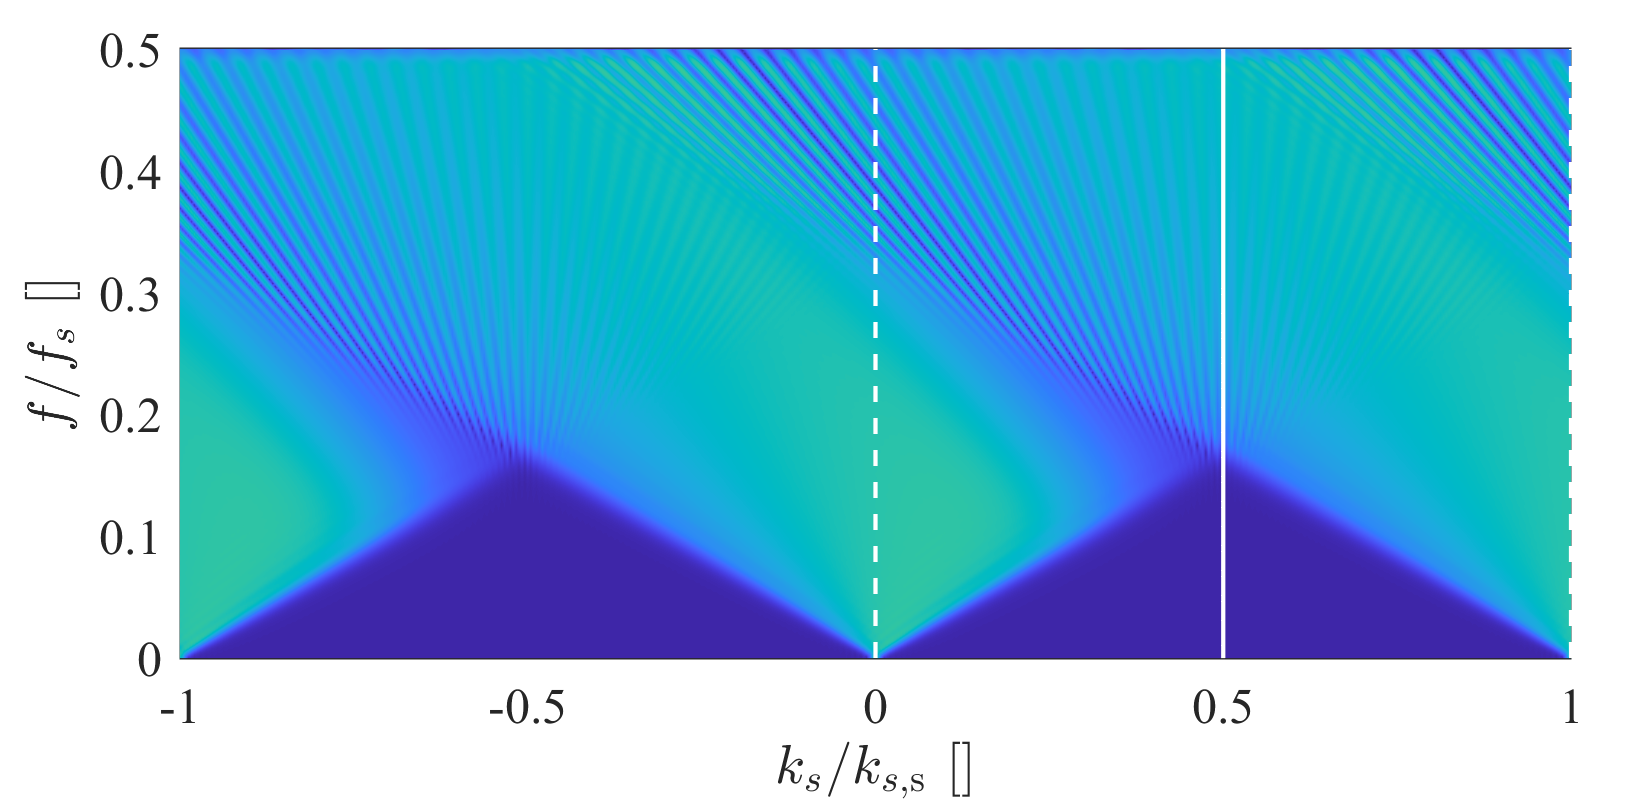
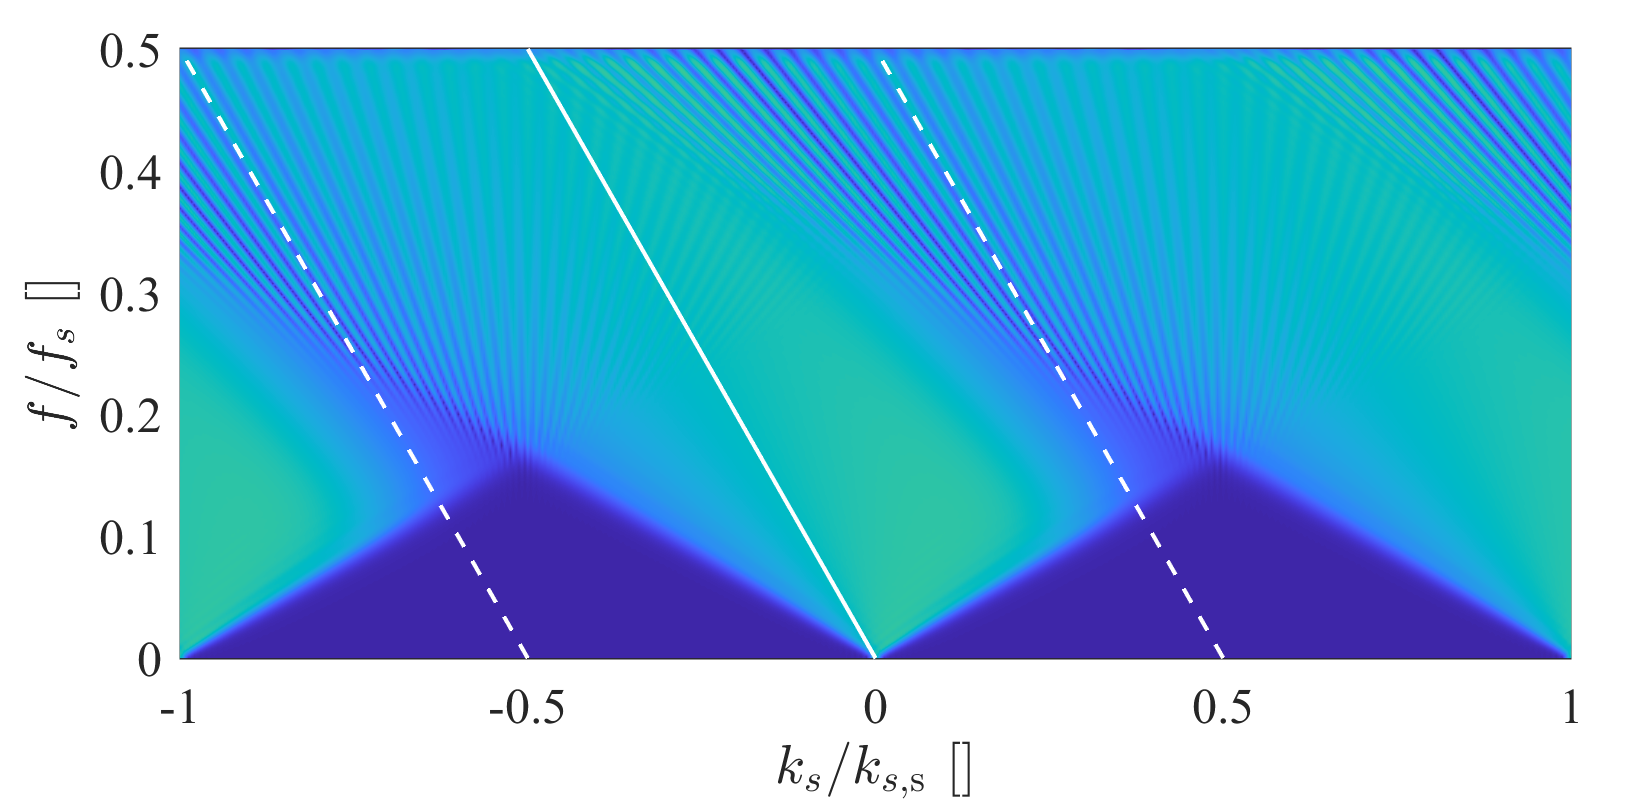
figs_added

diff --git a/paper/main.tex b/paper/main.tex
@@ -364,17 +364,21 @@ The set of window functions applied in the present simulation scenario are illus
 As an alternative antialiasing strategy, the overlapping of the spectra can be avoided by bandlimiting the driving function spectra with a spatial pass-band filter with an arbitrary center wavenumber $k_{s,0}$ and the bandwidth of the sampling wavenumber $k_{s,\mathrm{s}} = k_{s,\mathrm{Nyq}}$.
 
 Again, the concept is illustrated via a simple synthesis scenraio as discussed in the foregoing.
-In the present case the spatial bandpass filter is derived by shifting the $N$-th order low-pass Butterworth design to the center wavenumber $k_{s,0}$
+In the present case the spatial bandpass filter is derived by shifting the $N$-th order low-pass Butterworth design to the a frequency dependent center wavenumber $k_{s,0}(\omega) = \frac{\omega}{c} \hat{k}_{s,0}$ (where $\hat{k}_{s,0}$ is a constant normalized wavenumber value)
 \begin{equation}
-    H_x(k_s) = \frac{ 1 }{ \sqrt{ 1 + \left( \frac{k_s-k_{s,0}}{k_{s,\mathrm{Nyq}} }\right)^{2N} } }.
+    H_x(k_s, \omega) = \frac{ 1 }{ \sqrt{ 1 + \left( \frac{k_s-k_{s,0}(\omega)}{k_{s,\mathrm{Nyq}} }\right)^{2N} } }.
 \end{equation}
+Note, that in this case even the spatial filters are frequency dependent.
+This seemingly pointless assumption ensures later that the transformed temporal filters remain time-invariant.
+
 Again, an equivalent filter bank is derived by using the transform \eqref{eq:frequency_transform}, resulting in the frequency response of 
 \begin{equation}
-    H_t(s,\omega) = \frac{ 1 }{ \sqrt{ 1 + \left( \frac{\omega}{c}\frac{\hat{k}_t^P(s) - k_{s,0}}{k_{s,\mathrm{Nyq}}}  \right)^{2N} } } =  \frac{ 1 }{ \sqrt{ 1 + \left( \frac{\omega}{\omega_c(s)}  \right)^{2N} } } .
+    H_t(s,\omega) = \frac{ 1 }{ \sqrt{ 1 + \left( \frac{\omega}{c}\frac{\hat{k}_t^P(s) - \hat{k}_{s,0}}{k_{s,\mathrm{Nyq}}}  \right)^{2N} } } =  \frac{ 1 }{ \sqrt{ 1 + \left( \frac{\omega}{\omega_c(s)}  \right)^{2N} } } .
 \end{equation}
-with 
+where $\hat{k}_{s,0}$ is the normalized center wavenumber and with
 \begin{equation}
-    \omega_c(s) = c \frac{k_{s,\mathrm{Nyq}}}{\hat{k}_t^P(s)- k_{s,0}} = c\frac{ \pi}{\Delta s} \frac{1}{\hat{k}_t^P(s)- k_{s,0}}.
+    \omega_c(s) = c \frac{k_{s,\mathrm{Nyq}}}{\hat{k}_t^P(s) - \hat{k}_{s,0}} = c\frac{ \pi}{\Delta s} \frac{1}{\hat{k}_t^P(s) - \hat{k}_{s,0}}.
+    \label{eq:cutoff_asymm}
 \end{equation}
 
 \begin{figure}[h!]
@@ -388,11 +392,46 @@ with
     \end{overpic}
 \end{center}
     \caption{Non-symmetric antialiasing filtering}
-\label{Fig:symm_antialiasing}
+\label{Fig:assymm_antialiasing}
 \end{figure}
+The application of the above formulation with an arbitrarily chosen center wavenumber $\hat{k}_{s,0} = 0.5$ is depicted in Figure \ref{Fig:assymm_antialiasing}.
+Note that the wavenumber content of the original spatial lowpass filter is ,,steered'', so that the center frequency varies linearly with the angular freuquency and the slope of the variation is given by the normalized center wavenumber.
+Obviously, this ,,steered'', frequency dependent band-pass filter theoretically also ensures non-overlapping spectra after the discretization process.
+
+From \eqref{eq:cutoff_asymm} it is apparent that in the present case the nearly fullband SSD element will be that, where the tangential local propagation vector coincides with the normalized center wavenumber, i.e. where $\hat{k}_t^P(s) = \hat{k}_{s,0} = 0.5$.
+Again, the fullband SSD element is denoted by white dot in Figure \ref{Fig:assymm_antialiasing} (a).
+Similarly to the previous case, this fullband SSD element serves as the stationary SSD position for a set of positions located along a straight line passing through the SSD element with the direction given by this element's local propagation vector.
+The direction along which fullband synthesis is ensured is denoted by dashed arrow in Figure \ref{Fig:assymm_antialiasing} (a).
 
 
-It is important to emphasize that if no actual SSD element exists for a given plane wave direction (for which the wave arrives perpendicularly) then all the SSD elements are bandlimited, i.e. 
+It is important to emphasize that if no actual SSD element exists for a given plane wave direction (for which the wave arrives perpendicularly) then all the SSD elements are bandlimited, i.e. in the synthesized field no fullband synthesis positions will be present.
+Therefore, for a given receiver position the bandwidth of the reproduced field will depend on the virtual source position/virtual plane wave direction and the loudspeaker spacing.
+This phenomena will have a clearly audible effect in case of dynamic WFS scenarios (e.g. moving virtual sources) and the possibilities to overcome this limitation is the topic of future research.
+
+\subsubsection{Application for Local Wave Field Synthesis}
+The findings of the previous subsections can be straightforwardly used in order to apply the above theory directly for Local Wave Field Synthesis.
+In this case a reference position $\vxref$ is prescribed inside the SSD, at which aliasing-free, amplitude and phase correct synthesis has to be ensured.
+
+Amplitude correct synthesis may be achieved by a suitably chosen reference function in \eqref{Eq:WFS25D}, based on the virtual field model.
+For a detailed treatise on the definition of the reference function the reader is referred to \cite{Firtha2019phd}.
+
+On the other hand, aliasing components can be suppressed by ,,steering'' the direction of antialiased synthesis to cross the prescribed reference point.
+This can be performed by finding the stationary position on the SSD for the reference position and choosing the normalized center wavenumber in \eqref{eq:cutoff_asymm} to coincide with the local propagation vector of the stationary position.
+Mathematically, this can be formulated as follows.
+Given a reference position $\vxref$ and an SSD located along $\vxo$, the stationary SSD element $\vxo^*$ satisfies
+\begin{equation}
+    \frac{\vxref - \vxo^*}{\left| \vxref - \vxo^* \right|} = \hat{\vk}^P(\vxo^*).
+\end{equation}
+Once $\vxo^*$ is found, that center wavenumber in \eqref{eq:cutoff_asymm} is found by
+\begin{equation}
+    \hat{k}_{s,0} = \hat{k}_t^P(\vxo^*).
+\end{equation}
+
+Obviously, symmetrical antialiasing filtering, depicted in Figure \ref{Fig:symm_antialiasing} can be regarded as LWFS with choosing $\vxref = [0, \, 0]^{\mathrm{T}}$,
+while Figure \ref{Fig:assymm_antialiasing}, illustrating asymmetrical filtering was generated by choosing $\vxref = [0, \, 1]^{\mathrm{T}}$.
+In both cases in Figure \ref{Fig:symm_antialiasing} and \ref{Fig:assymm_antialiasing} (a) the reference position is denoted by black cross.
+
+\section{Comparison with direct modal bandlimitation}
 
 \section*{Acknowledgment}
 
